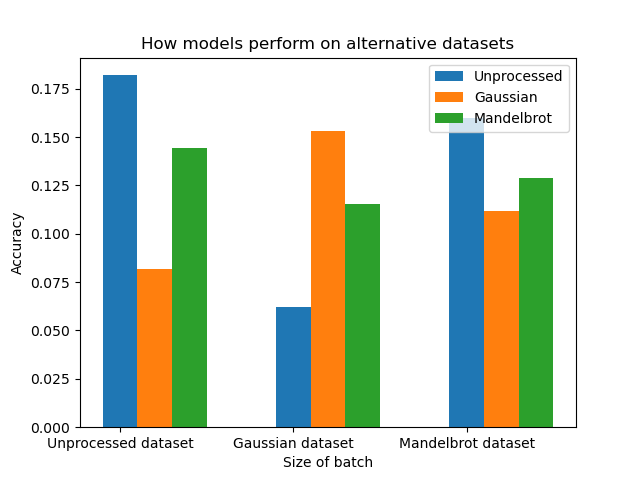
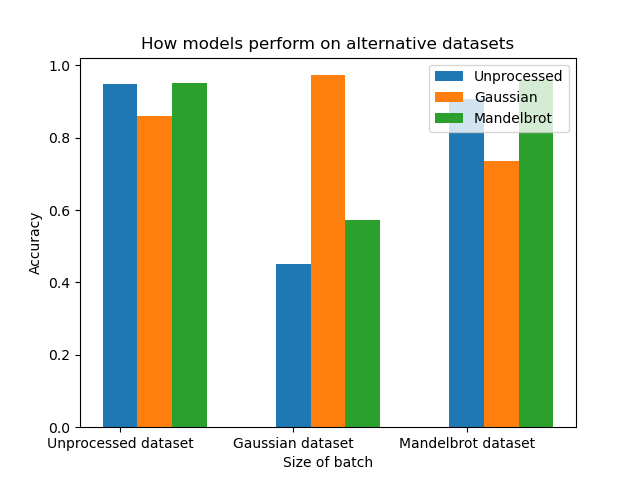
fix bug

diff --git a/Mandlebrot/example.py b/Mandlebrot/example.py
@@ -154,9 +154,6 @@ model_mandle.train(X_mandle_train,train_y_,epochs=25)
 datasets=[(test_X,test_y),(X_standard_test,test_y),(X_mandle_test,test_y)]
 data=[]
 for train,test in datasets: #loop through different sized epochs
-    model_plain=model()
-    model_standard=model()
-    model_mandle=model()
     #train based on epoch
     #test
     t=[]
@@ -164,13 +161,12 @@ for train,test in datasets: #loop through different sized epochs
     t.append(model_standard.test(train,test))
     t.append(model_mandle.test(train,test))
     data.append(t)
-#[[0.182  0.0819 0.1442]
-# [0.0623 0.1534 0.1153]
-# [0.1599 0.1118 0.1291]]
 langs = ['Unprocessed dataset','Gaussian dataset','Mandelbrot dataset']
 data=np.array(data)
 X_axis = np.arange(len(langs))
-
+print(sum(data[:, 0])/3)
+print(sum(data[:, 1])/3)
+print(sum(data[:, 2])/3)
 plt.bar(X_axis, data[:, 0], 0.2, label = 'Unprocessed')
 plt.bar(X_axis + 0.2, data[:, 1], 0.2, label = 'Gaussian')
 plt.bar(X_axis + 0.4, data[:, 2], 0.2, label = 'Mandelbrot')
